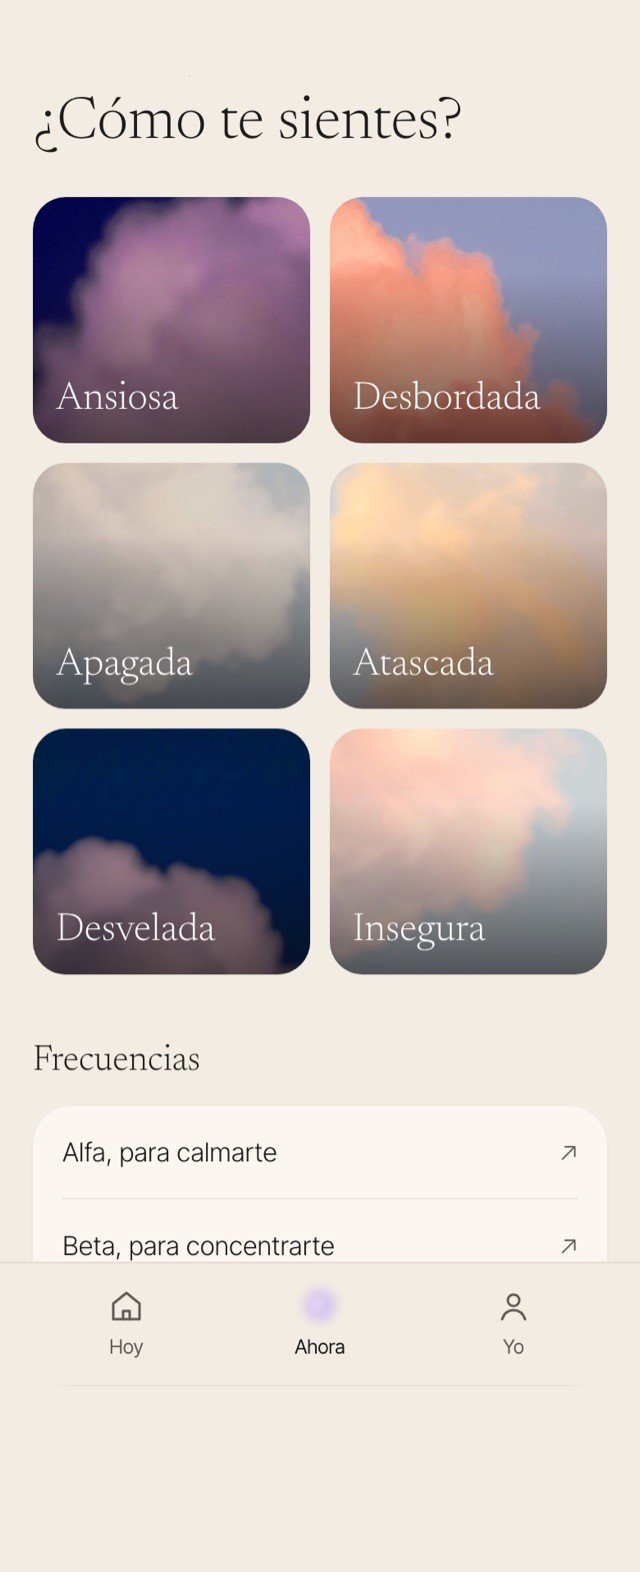
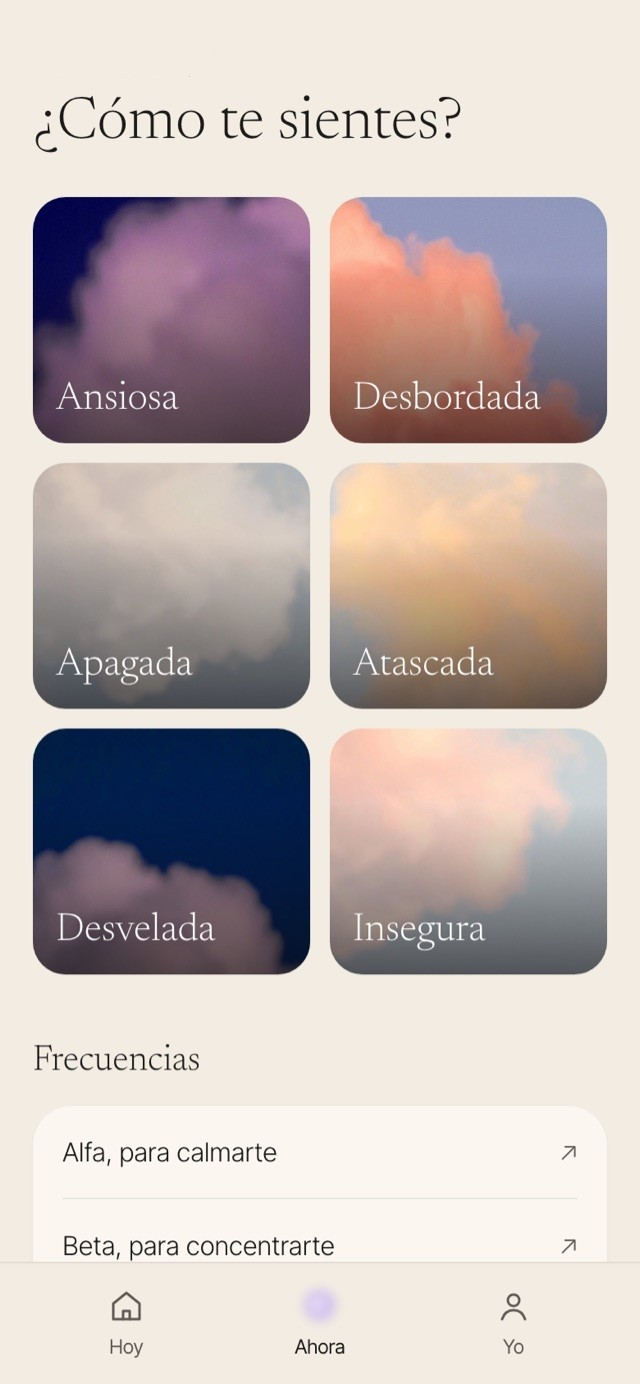
Esquinas limpias en las capturas y captura de Aire sin hueco

diff --git a/index.html b/index.html
@@ -118,7 +118,7 @@ ul{padding:0;list-style:none}
 .anim .pal{display:inline-block;overflow:hidden;vertical-align:top;padding:.06em .12em .16em;margin:-.06em -.12em -.16em}
 .anim .pal>span{display:inline-block;transform:translateY(125%);filter:blur(14px);opacity:0}
 .anim [data-sube]{opacity:0;transform:translateY(26px)}
-.anim .marco[data-abre]{clip-path:inset(100% 0 0 0)}
+.anim .marco[data-abre]:not(.visto){clip-path:inset(100% 0 0 0)}
 .anim .marco[data-abre]:not(.visto) img{transform:scale(1.25)}
 
 @media (max-width:820px){
@@ -185,7 +185,7 @@ ul{padding:0;list-style:none}
     </div>
     <div class="galeria moviles">
       <div class="marco" data-abre><img src="img/aire-v4-hoy.jpg" width="640" height="1385" alt="Pantalla Hoy de Aire, con el objetivo «Menos ansiedad y estrés» y la práctica del momento sobre una foto de cielo"></div>
-      <div class="marco" data-abre><img src="img/aire-v4-ahora-musica.jpg" width="640" height="1385" alt="Pantalla Ahora de Aire, que pregunta «¿Cómo te sientes?» y ofrece estados como Ansiosa o Desbordada"></div>
+      <div class="marco" data-abre><img src="img/aire-v4-ahora-musica.jpg" width="640" height="1384" alt="Pantalla Ahora de Aire, que pregunta «¿Cómo te sientes?» y ofrece estados como Ansiosa o Desbordada"></div>
       <div class="marco" data-abre><img src="img/aire-v4-respira-anillo.jpg" width="640" height="1385" alt="Reproductor de una respiración guiada en Aire, con un anillo que marca el ritmo"></div>
       <div class="marco" data-abre><img src="img/aire-v4-hoy-noche.jpg" width="640" height="1385" alt="Pantalla Hoy de Aire en su versión de noche"></div>
     </div>
@@ -376,7 +376,7 @@ ul{padding:0;list-style:none}
     var img = m.querySelector('img');
     gsap.timeline({ scrollTrigger: { trigger: m, start: 'top 94%' } })
       .to(m, { clipPath: 'inset(0% 0 0 0)', duration: 1.2, ease: suave, delay: (i % 4) * .07 }, 0)
-      .to(img, { scale: 1, duration: 1.6, ease: suave, onComplete: function(){ m.classList.add('visto'); gsap.set(img, { clearProps: 'transform' }); } }, 0);
+      .to(img, { scale: 1, duration: 1.6, ease: suave, onComplete: function(){ m.classList.add('visto'); gsap.set(img, { clearProps: 'transform' }); gsap.set(m, { clearProps: 'clipPath' }); } }, 0);
   });
   gsap.utils.toArray('.moviles .marco').forEach(function(m, i){
     gsap.to(m, { yPercent: i % 2 ? -8 : 5, ease: 'none', scrollTrigger: { trigger: '.moviles', start: 'top bottom', end: 'bottom top', scrub: true } });
